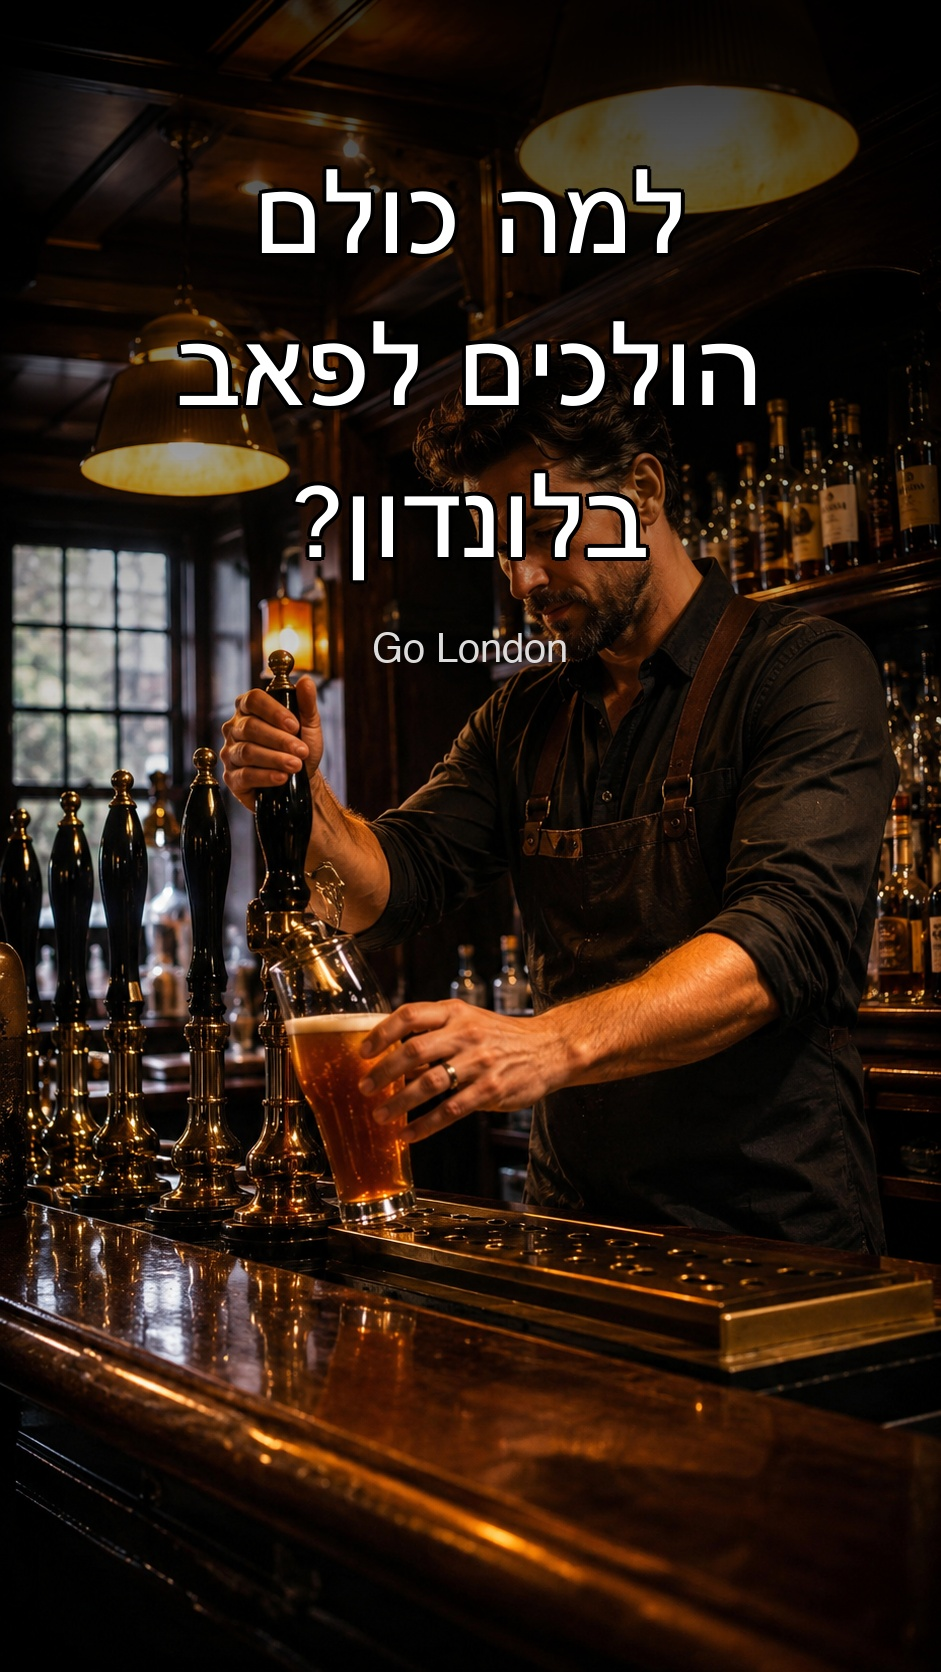
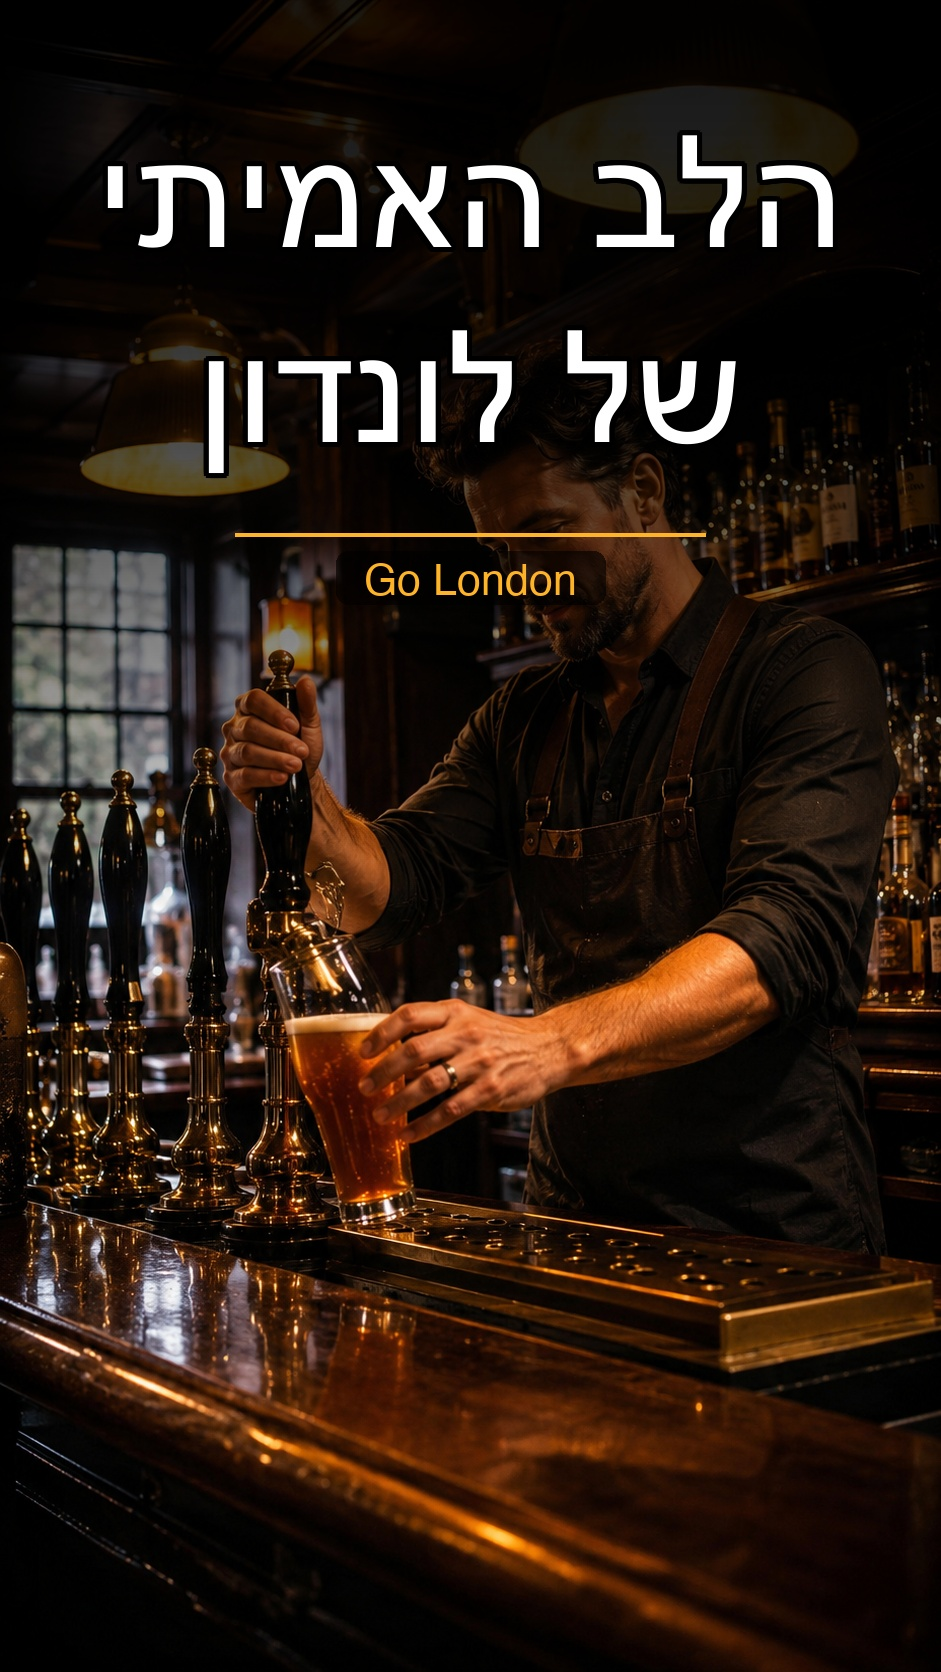
פאבים בלונדון: 3 תמונות + רילס עם וידאו

diff --git a/add_reel_text.py b/add_reel_text.py
@@ -1,8 +1,4 @@
 #!/usr/bin/env python3
-"""
-מוסיף כיתוב hook עברי על תמונת רילס 9:16
-שימוש: python3 add_reel_text.py input.jpg output.jpg "הטקסט כאן"
-"""
 import sys
 from PIL import Image, ImageDraw, ImageFont
 from bidi.algorithm import get_display
@@ -10,7 +6,7 @@ from bidi.algorithm import get_display
 def reshape_hebrew(text):
     return get_display(text)
 
-def wrap_rtl(text, max_chars=12):
+def wrap_rtl(text, max_chars=10):
     words = text.split()
     lines = []
     current = []
@@ -27,16 +23,28 @@ def wrap_rtl(text, max_chars=12):
         lines.append(" ".join(current))
     return lines
 
+def draw_text_with_glow(draw, pos, text, font, color, glow_color=(0,0,0,200), glow_radius=6):
+    x, y = pos
+    offsets = []
+    for dx in range(-glow_radius, glow_radius+1, 2):
+        for dy in range(-glow_radius, glow_radius+1, 2):
+            if dx*dx + dy*dy <= glow_radius*glow_radius:
+                offsets.append((dx, dy))
+    for dx, dy in offsets:
+        draw.text((x+dx, y+dy), text, font=font, fill=glow_color)
+    draw.text((x, y), text, font=font, fill=color)
+
 def add_hook_text(input_path, output_path, hook_text, subtitle="Go London"):
     img = Image.open(input_path).convert("RGBA")
     w, h = img.size
 
-    # gradient כהה בחלק העליון
+    # גרדיאנט כהה חזק בחלק העליון — 55% גובה
     gradient = Image.new("RGBA", (w, h), (0, 0, 0, 0))
     draw_grad = ImageDraw.Draw(gradient)
-    grad_height = int(h * 0.50)
+    grad_height = int(h * 0.55)
     for y in range(grad_height):
-        alpha = int(210 * (1 - y / grad_height))
+        t = y / grad_height
+        alpha = int(230 * (1 - t * t))
         draw_grad.line([(0, y), (w, y)], fill=(0, 0, 0, alpha))
 
     img = Image.alpha_composite(img, gradient)
@@ -44,39 +52,57 @@ def add_hook_text(input_path, output_path, hook_text, subtitle="Go London"):
 
     font_heb = "/System/Library/Fonts/ArialHB.ttc"
     font_lat = "/System/Library/Fonts/Helvetica.ttc"
-    font_size = max(72, w // 8)
-    try:
-        font_main = ImageFont.truetype(font_heb, font_size)
-        font_sub = ImageFont.truetype(font_lat, int(font_size * 0.35))
-    except:
-        font_main = ImageFont.load_default()
-        font_sub = font_main
 
-    # שבירת שורות + תיקון RTL
-    raw_lines = wrap_rtl(hook_text, max_chars=11)
+    # גופן גדול יותר
+    font_size = max(90, w // 6)
+    font_main = ImageFont.truetype(font_heb, font_size)
+    font_sub  = ImageFont.truetype(font_lat, int(font_size * 0.28))
+    font_badge= ImageFont.truetype(font_lat, int(font_size * 0.22))
+
+    raw_lines = wrap_rtl(hook_text, max_chars=10)
     lines = [reshape_hebrew(l) for l in raw_lines]
 
-    line_spacing = int(font_size * 1.3)
-    start_y = int(h * 0.10)
+    line_spacing = int(font_size * 1.25)
+    start_y = int(h * 0.08)
 
+    # כיתוב hook עם גלו
+    AMBER = (255, 180, 40, 255)
     for i, line in enumerate(lines):
         bbox = draw.textbbox((0, 0), line, font=font_main)
         text_w = bbox[2] - bbox[0]
         x = (w - text_w) // 2
         y = start_y + i * line_spacing
+        draw_text_with_glow(draw, (x, y), line, font_main,
+                            color=(255, 255, 255, 255),
+                            glow_color=(0, 0, 0, 210),
+                            glow_radius=7)
 
-        # outline שחור
-        for dx, dy in [(-4,0),(4,0),(0,-4),(0,4),(-3,-3),(3,-3),(-3,3),(3,3)]:
-            draw.text((x+dx, y+dy), line, font=font_main, fill=(0, 0, 0, 230))
-        # טקסט לבן
-        draw.text((x, y), line, font=font_main, fill=(255, 255, 255, 255))
+    text_bottom = start_y + len(lines) * line_spacing
 
-    # subtitle "Go London"
-    sub_y = start_y + len(lines) * line_spacing + 8
-    sub_bbox = draw.textbbox((0, 0), subtitle, font=font_sub)
-    sub_w = sub_bbox[2] - sub_bbox[0]
-    sub_x = (w - sub_w) // 2
-    draw.text((sub_x, sub_y), subtitle, font=font_sub, fill=(220, 220, 220, 210))
+    # קו זהוב
+    line_y = text_bottom + 10
+    line_x0 = w // 4
+    line_x1 = 3 * w // 4
+    draw.rectangle([(line_x0, line_y), (line_x1, line_y + 3)], fill=(255, 180, 40, 220))
+
+    # "Go London" badge
+    badge_y = line_y + 18
+    badge_bbox = draw.textbbox((0, 0), subtitle, font=font_sub)
+    badge_w = badge_bbox[2] - badge_bbox[0]
+    badge_h = badge_bbox[3] - badge_bbox[1]
+    pad_x, pad_y = 28, 10
+    bx = (w - badge_w) // 2 - pad_x
+    by = badge_y
+    # רקע שחור שקוף לבאדג
+    badge_bg = Image.new("RGBA", img.size, (0, 0, 0, 0))
+    bb_draw = ImageDraw.Draw(badge_bg)
+    bb_draw.rounded_rectangle(
+        [(bx, by), (bx + badge_w + pad_x*2, by + badge_h + pad_y*2)],
+        radius=12, fill=(0, 0, 0, 160)
+    )
+    img = Image.alpha_composite(img, badge_bg)
+    draw = ImageDraw.Draw(img)
+    draw.text((bx + pad_x, by + pad_y), subtitle, font=font_sub, fill=(255, 180, 40, 240))
 
     result = img.convert("RGB")
     result.save(output_path, "JPEG", quality=95)